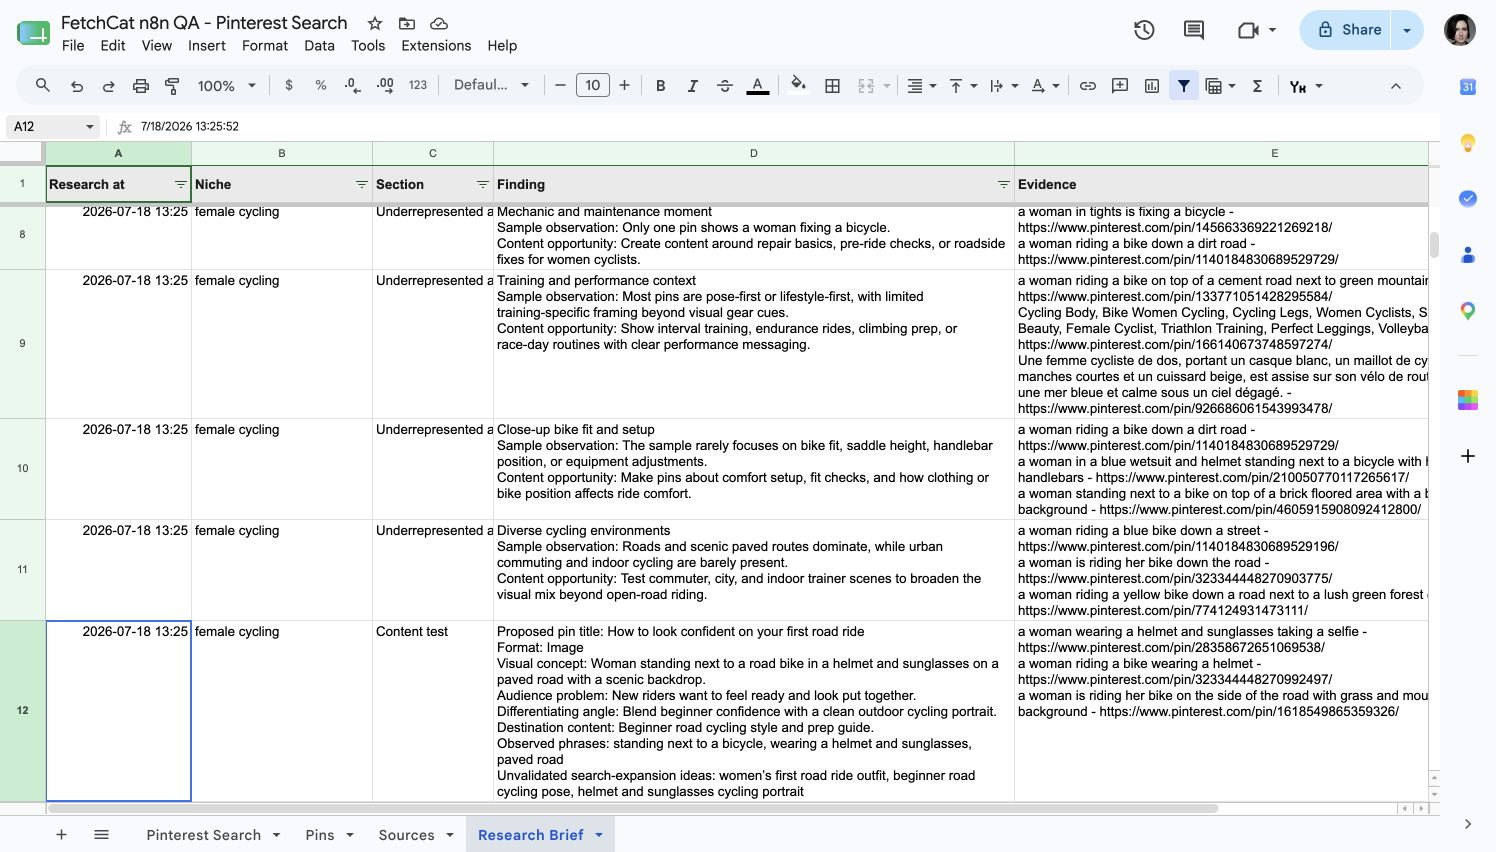
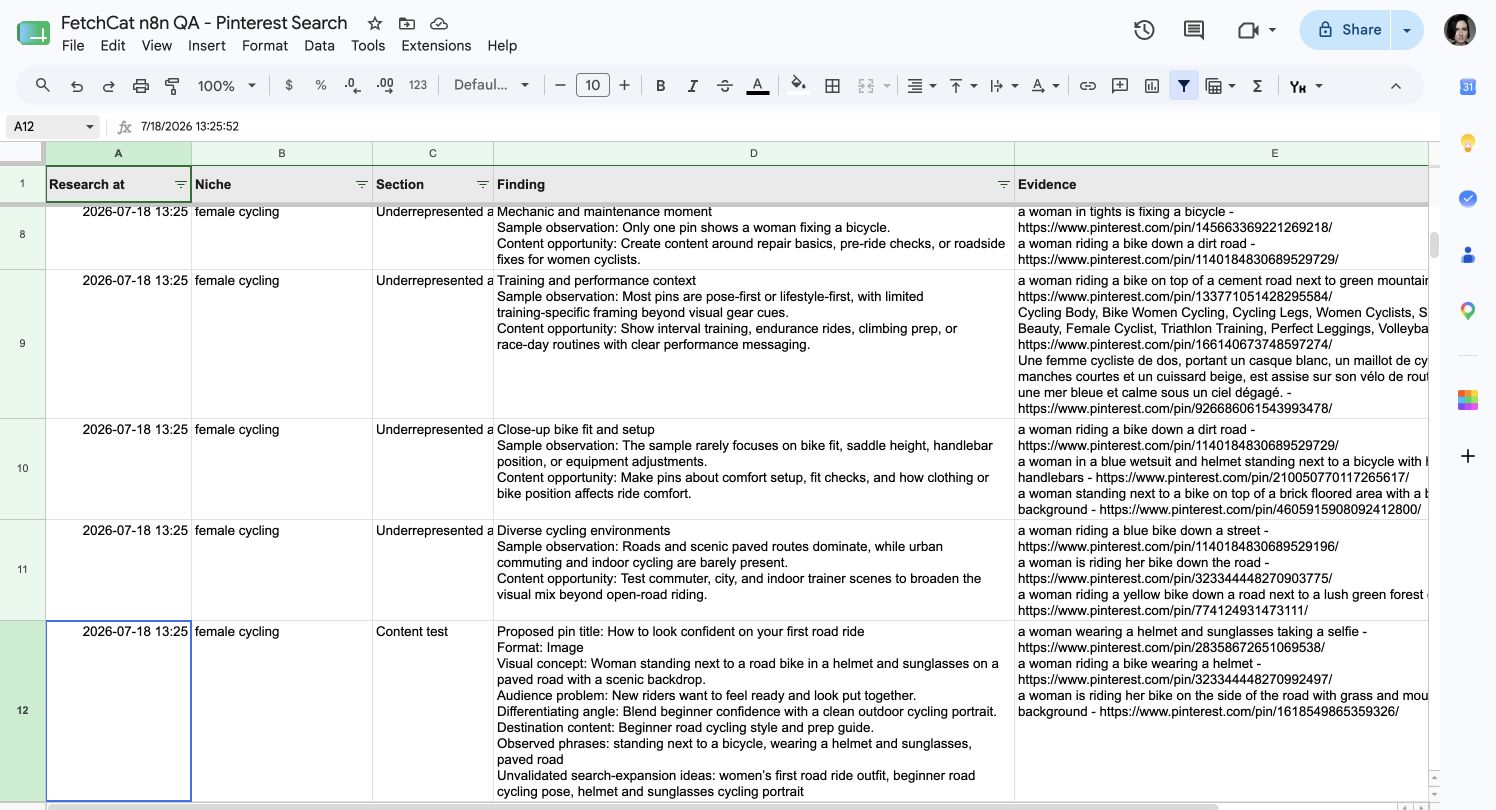
refactor: remove Pinterest sources summary

diff --git a/workflows/pinterest-content-opportunity-research/README.md b/workflows/pinterest-content-opportunity-research/README.md
@@ -6,14 +6,12 @@ produce an evidence-linked research brief.
 
 For example, `female cycling` can return up to the configured result limit, reveal
 recurring content themes and underrepresented angles, and produce five production-ready
-content briefs. When Pinterest exposes creator and domain fields, the workflow summarizes
-those public sources too. It does not present search-result evidence as Pinterest
-search volume or demand.
+content briefs. It does not present search-result evidence as Pinterest search volume
+or demand.
 
 ## What You Get
 
 - A `Pins` tab containing every source result and its search position.
-- A `Sources` tab summarizing creators and domains when Pinterest exposes them.
 - A `Research Brief` tab containing a summary, leading themes, underrepresented
   angles, and exactly five production-ready content tests.
 - Each content test includes a proposed pin title, visual concept, format, audience
@@ -26,14 +24,11 @@ search volume or demand.
 ## Setup
 
 1. Import `workflow.json` into n8n Cloud or self-hosted n8n.
-2. Create one Google spreadsheet with three tabs and these row-one headers:
+2. Create one Google spreadsheet with two tabs and these row-one headers:
 
    `Pins`: `Research at`, `Niche`, `Search`, `Position`, `Pin`, `Title`,
    `Description`, `Creator`, `Board`, `Domain`, `Destination`, `Image`, `Format`,
    `Saves`, `Repins`, `Pinterest pin ID`, `Research key`.
-
-   `Sources`: `Research at`, `Niche`, `Type`, `Name`, `Appearances`,
-   `Top 10 appearances`, `Best position`, `Example pin`, `Research key`.
 
    `Research Brief`: `Research at`, `Niche`, `Section`, `Finding`, `Evidence`,
    `Matching pins`, `Sort order`, `Research key`.
@@ -53,8 +48,7 @@ search volume or demand.
 
 ## How Analysis Works
 
-The workflow deterministically counts creators, domains, top-ten appearances,
-formats, and recurring phrases. It then sends a bounded evidence packet to one
+The workflow deterministically counts formats and recurring phrases. It then sends a bounded evidence packet to one
 structured `gpt-5.4-mini` request. Invalid citations are removed, while a finding with
 no supplied evidence or malformed output stops the workflow before any Sheet write.
 Observed phrases come from the supplied pins. Suggested search expansions are
@@ -71,11 +65,12 @@ The report describes the Pinterest results returned for the searches you supplie
 It can support content-landscape research, visible source research, visual SEO, and
 content planning. It does not discover Pinterest autocomplete keywords, provide monthly search volume, or
 prove trend growth, engagement, clicks, sales, or demand. Save and repin counts remain
-blank when Pinterest does not expose them publicly. If Pinterest withholds all public
-creator and domain metadata, the Sources tab records that limitation explicitly.
+blank when Pinterest does not expose them publicly. Creator, board, domain, and
+destination fields stay on each `Pins` row when available; no separate source summary
+is promised.
 
 ## QA
 
 Test valid source collection, fewer-than-ten-pin failure, duplicate pin removal,
-public source aggregation, malformed AI output, invented evidence IDs, all three Sheet
-writes, same-day reruns, export/reimport, inactive state, and secret scanning.
+malformed AI output, invented evidence IDs, both Sheet writes, same-day reruns,
+export/reimport, inactive state, and secret scanning.

diff --git a/workflows/pinterest-content-opportunity-research/creator-draft.md b/workflows/pinterest-content-opportunity-research/creator-draft.md
@@ -4,15 +4,14 @@
 
 Turn a Pinterest niche into inspectable content research instead of
 another unstructured list of pins. This workflow runs
-`fetch_cat/pinterest-search-scraper`, saves every source result, summarizes available
-public sources, and produces an evidence-linked research brief.
+`fetch_cat/pinterest-search-scraper`, saves every source result, and produces an
+evidence-linked research brief.
 
 For example, enter `female cycling` and request up to 500 public results. The output
 shows how many pins Pinterest returned, which formats and phrases recur, what the
 existing results underrepresent, and five production-ready content briefs. Each brief
 includes a proposed pin title, visual concept, audience problem, differentiating angle,
-destination content, observed phrases, and unvalidated search-expansion ideas. When Pinterest
-exposes creator or destination fields, the workflow summarizes those sources too.
+destination content, observed phrases, and unvalidated search-expansion ideas.
 
 ## Who is it for?
 
@@ -27,17 +26,14 @@ exposes creator or destination fields, the workflow summarizes those sources too
 2. Collects 20 to 500 public pins per search with FetchCat.
 3. Saves positions, titles, descriptions, creators, boards, domains, destinations,
    formats, images, and available public metrics.
-4. Ranks creators and domains by total appearances, top-ten appearances, and best
-   position.
-5. Builds a bounded evidence packet and analyzes it in one structured OpenAI call.
-6. Rejects findings that cite pin IDs absent from the supplied source data.
-7. Clearly separates observed phrases from unvalidated search-expansion ideas.
-8. Saves source pins, available public source aggregates, and the readable brief to
-   separate Google Sheet tabs.
+4. Builds a bounded evidence packet and analyzes it in one structured OpenAI call.
+5. Removes invalid citations and rejects findings without supplied evidence.
+6. Clearly separates observed phrases from unvalidated search-expansion ideas.
+7. Saves source pins and the readable brief to separate Google Sheet tabs.
 
 Public detail enrichment is enabled by default. Pinterest can still withhold creator,
-board, domain, destination, save, or repin fields; unavailable evidence is left blank
-or identified explicitly rather than inferred.
+board, domain, destination, save, or repin fields. Those fields remain on individual
+pin rows when available and are left blank rather than inferred when unavailable.
 
 ## Required accounts
 